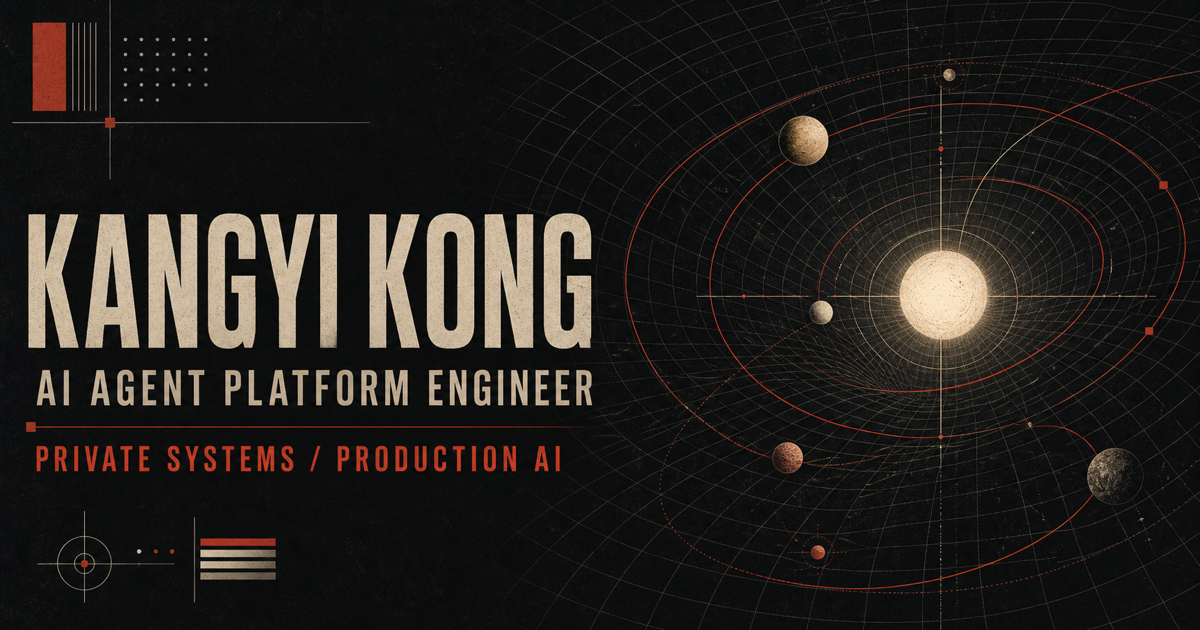
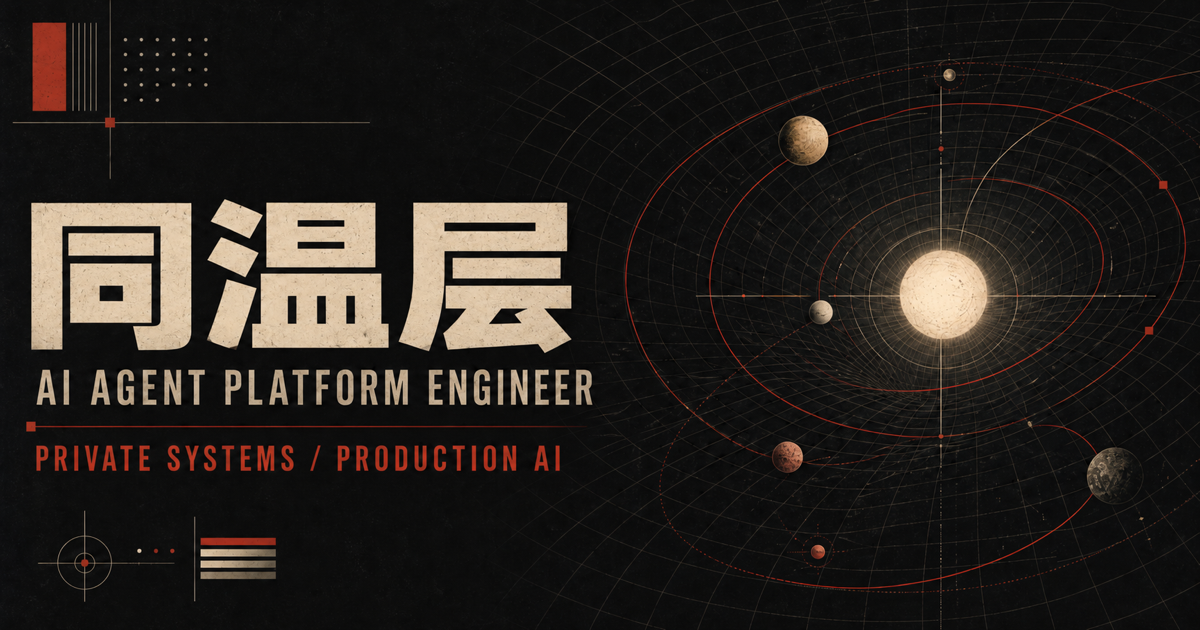
Rename the portfolio to 同温层 and its masthead to 观测站

diff --git a/index.html b/index.html
@@ -4,16 +4,16 @@
     <meta charset="UTF-8" />
     <meta name="viewport" content="width=device-width, initial-scale=1.0" />
     <meta name="theme-color" content="#121212" />
-    <meta name="description" content="孔康懿的个人主页：AI 智能体平台、私有化 AI 系统与金融科技工程实践。" />
+    <meta name="description" content="同温层的个人主页：AI 智能体平台、私有化 AI 系统与金融科技工程实践。" />
     <meta property="og:type" content="website" />
-    <meta property="og:title" content="孔康懿 — AI Agent Platform Engineer" />
+    <meta property="og:title" content="同温层 — AI Agent Platform Engineer" />
     <meta property="og:description" content="Building deployable, governable and observable AI systems for private environments." />
-    <meta property="og:image" content="https://twctoolbox.com/og.png" />
+    <meta property="og:image" content="https://twctoolbox.com/og.png?v=station" />
     <meta name="twitter:card" content="summary_large_image" />
-    <meta name="twitter:title" content="孔康懿 — AI Agent Platform Engineer" />
+    <meta name="twitter:title" content="同温层 — AI Agent Platform Engineer" />
     <meta name="twitter:description" content="Building deployable, governable and observable AI systems for private environments." />
-    <meta name="twitter:image" content="https://twctoolbox.com/og.png" />
-    <title>孔康懿 — AI Agent Platform Engineer</title>
+    <meta name="twitter:image" content="https://twctoolbox.com/og.png?v=station" />
+    <title>同温层 — AI Agent Platform Engineer</title>
   </head>
   <body>
     <div id="root"></div>

diff --git a/src/components/OverlayUI.tsx b/src/components/OverlayUI.tsx
@@ -36,7 +36,7 @@ const LOCATOR_LABELS: Record<ModuleId, string> = {
 };
 
 const TERMINAL_LOGS = [
-  '[00.000] WAKE / PROFILE KERNEL',
+  '[00.000] OPEN / STATION LOG',
   '[00.041] MOUNT / CAREER GRAPH',
   '[00.086] SYNC / PROJECT INDEX',
   '[00.133] READ / PUBLIC RECORDS',
@@ -245,14 +245,14 @@ export default function OverlayUI({
         className={`absolute left-8 top-8 z-10 transition-all duration-500 md:left-16 md:top-16 ${activeModule ? '-translate-y-3 opacity-0' : 'translate-y-0 opacity-100'}`}
         aria-hidden={Boolean(activeModule)}
       >
-        <h1 className="text-5xl font-black uppercase tracking-[-0.07em] leading-[0.78] text-[#DED8C4] md:text-7xl lg:text-[104px]">
-          智能体中枢<br />
-          <span className="text-[#BE2E21]">KERNEL</span>
+        <h1 className="text-[clamp(2rem,10vw,3rem)] font-black uppercase tracking-[-0.07em] leading-[0.78] text-[#DED8C4] md:text-7xl lg:text-[104px]">
+          观测站<br />
+          <span className="text-[#BE2E21]">STATION</span>
         </h1>
         <div className="mt-5 h-1.5 w-20 bg-[#BE2E21] md:w-28" />
-        <p className="mt-4 hidden max-w-xs text-[10px] font-bold uppercase leading-relaxed tracking-[0.22em] text-[#DED8C4]/55 md:block">
-          Kangyi Kong / 孔康懿<br />
-          AI agent platform engineer
+        <p className="mt-4 max-w-xs text-[10px] font-bold uppercase leading-relaxed tracking-[0.22em] text-[#DED8C4]/55">
+          同温层
+          <span className="hidden md:block">AI agent platform engineer</span>
         </p>
       </header>
 
